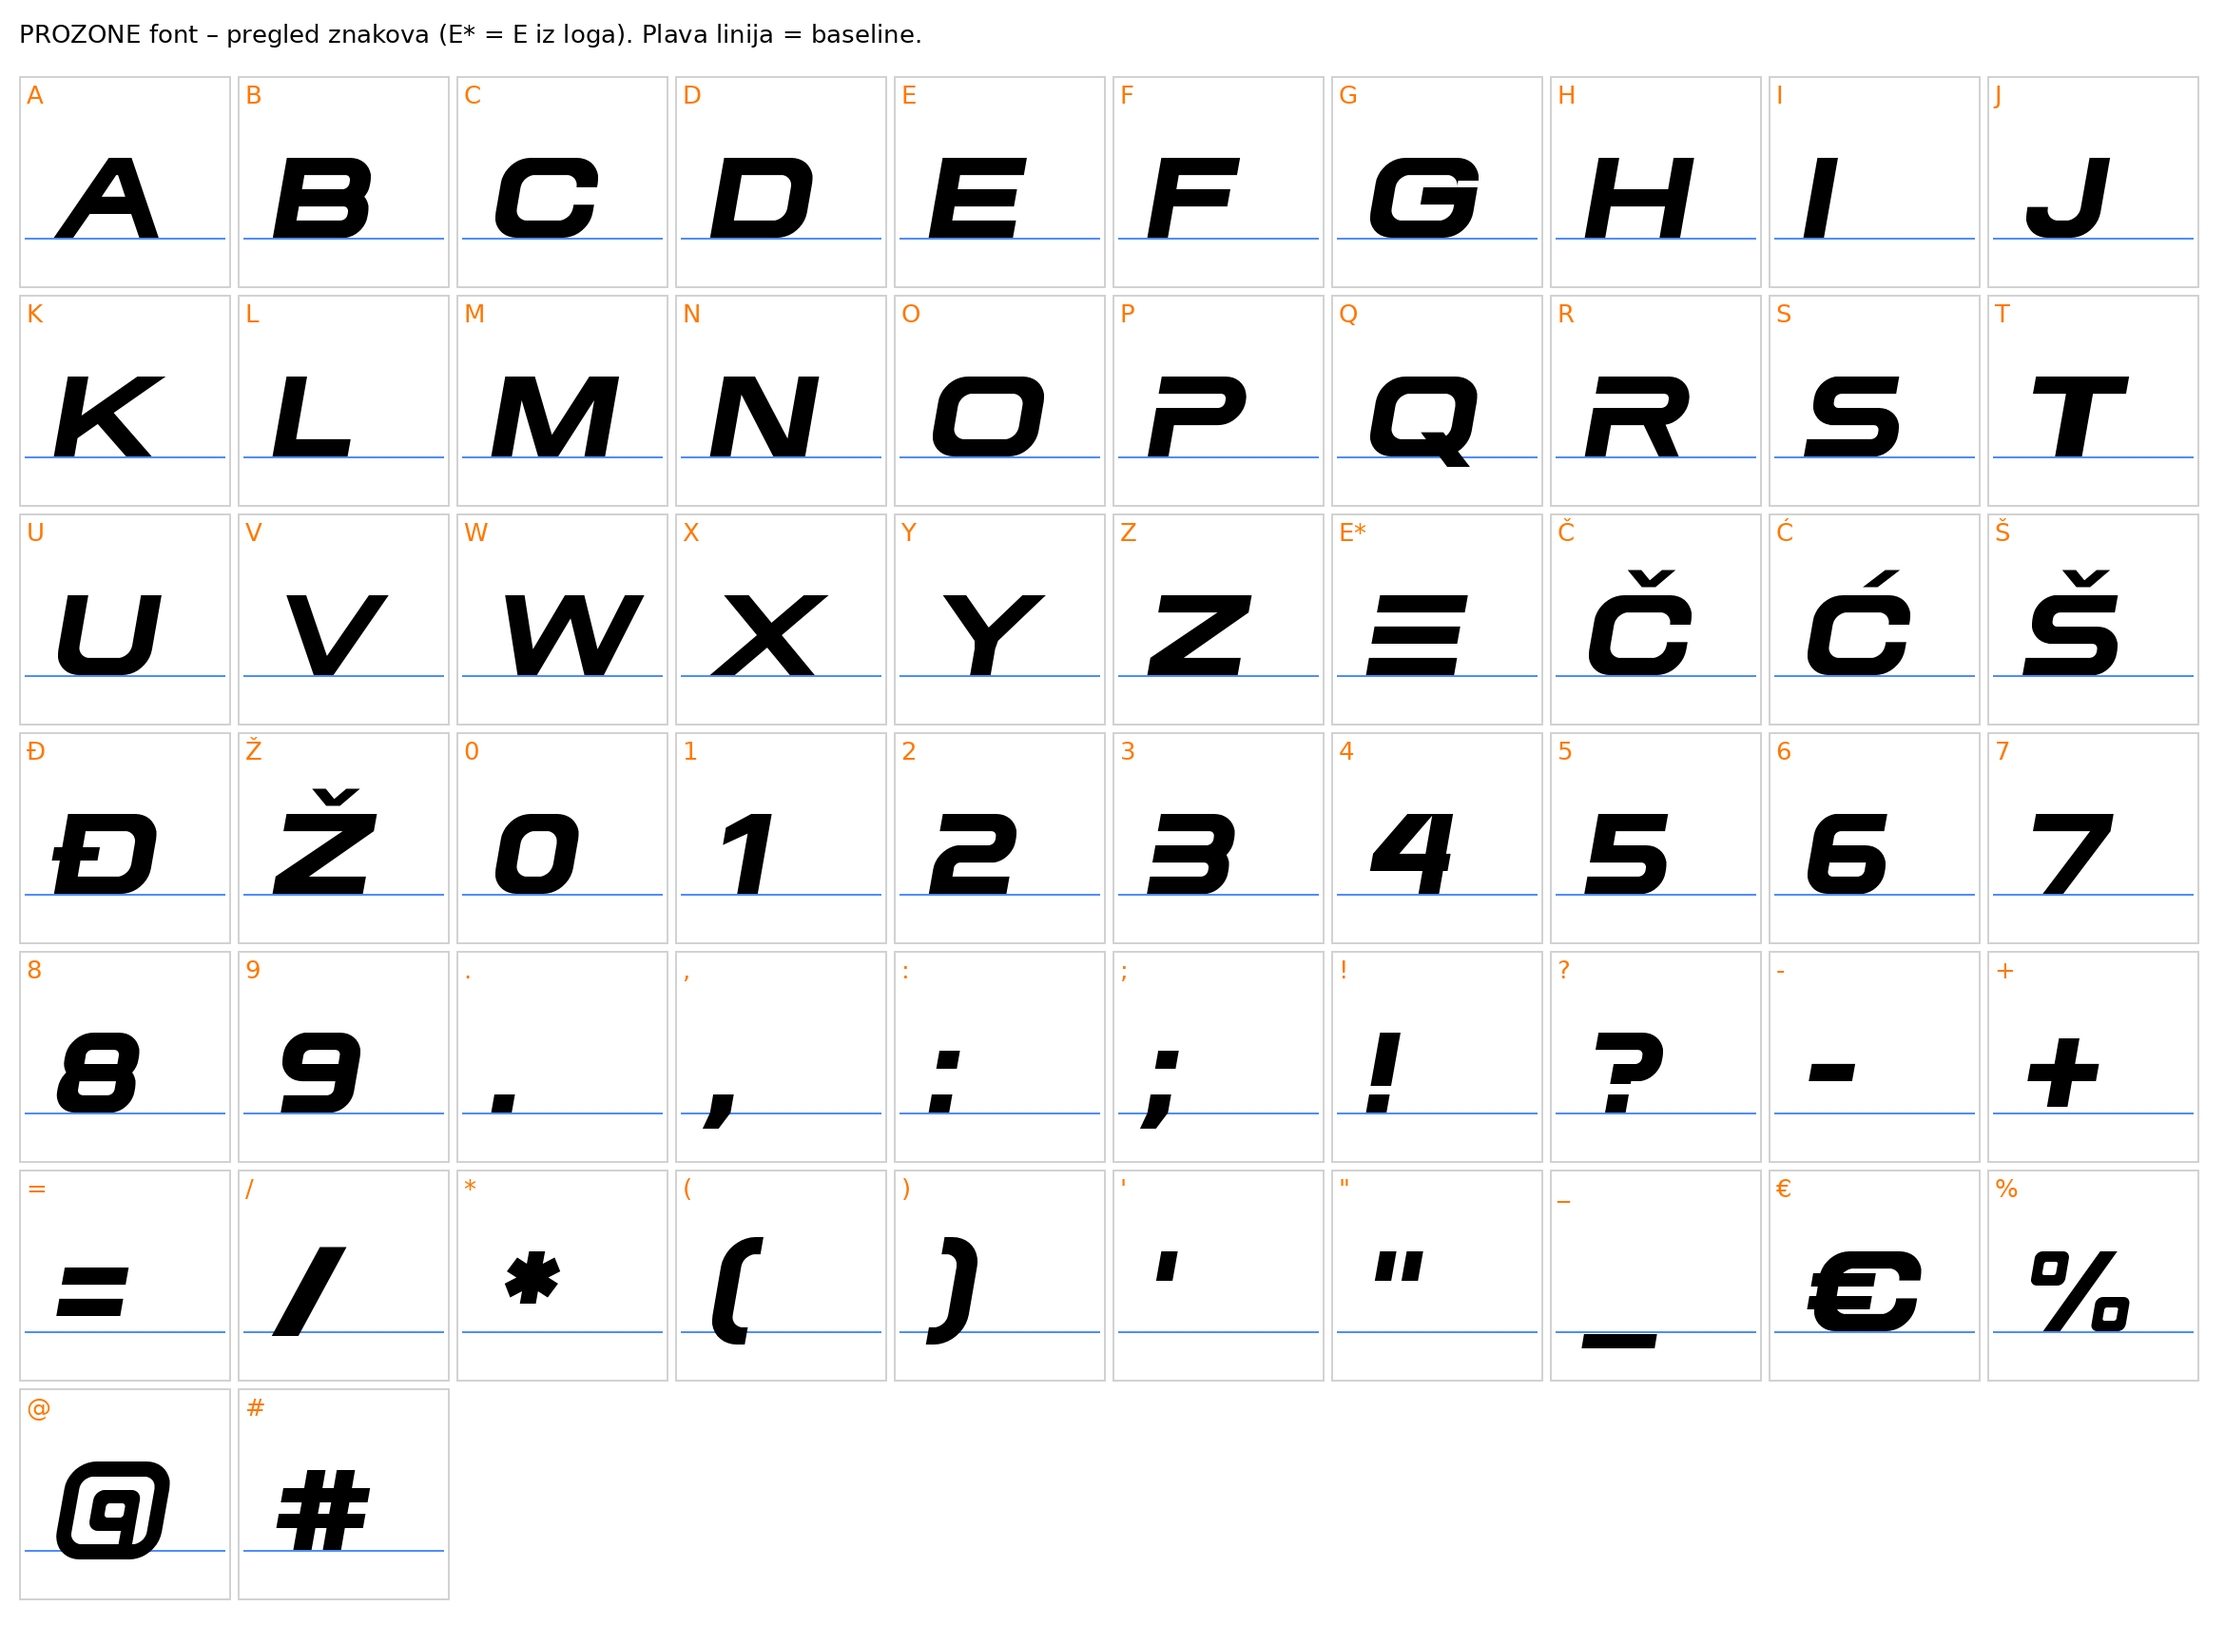
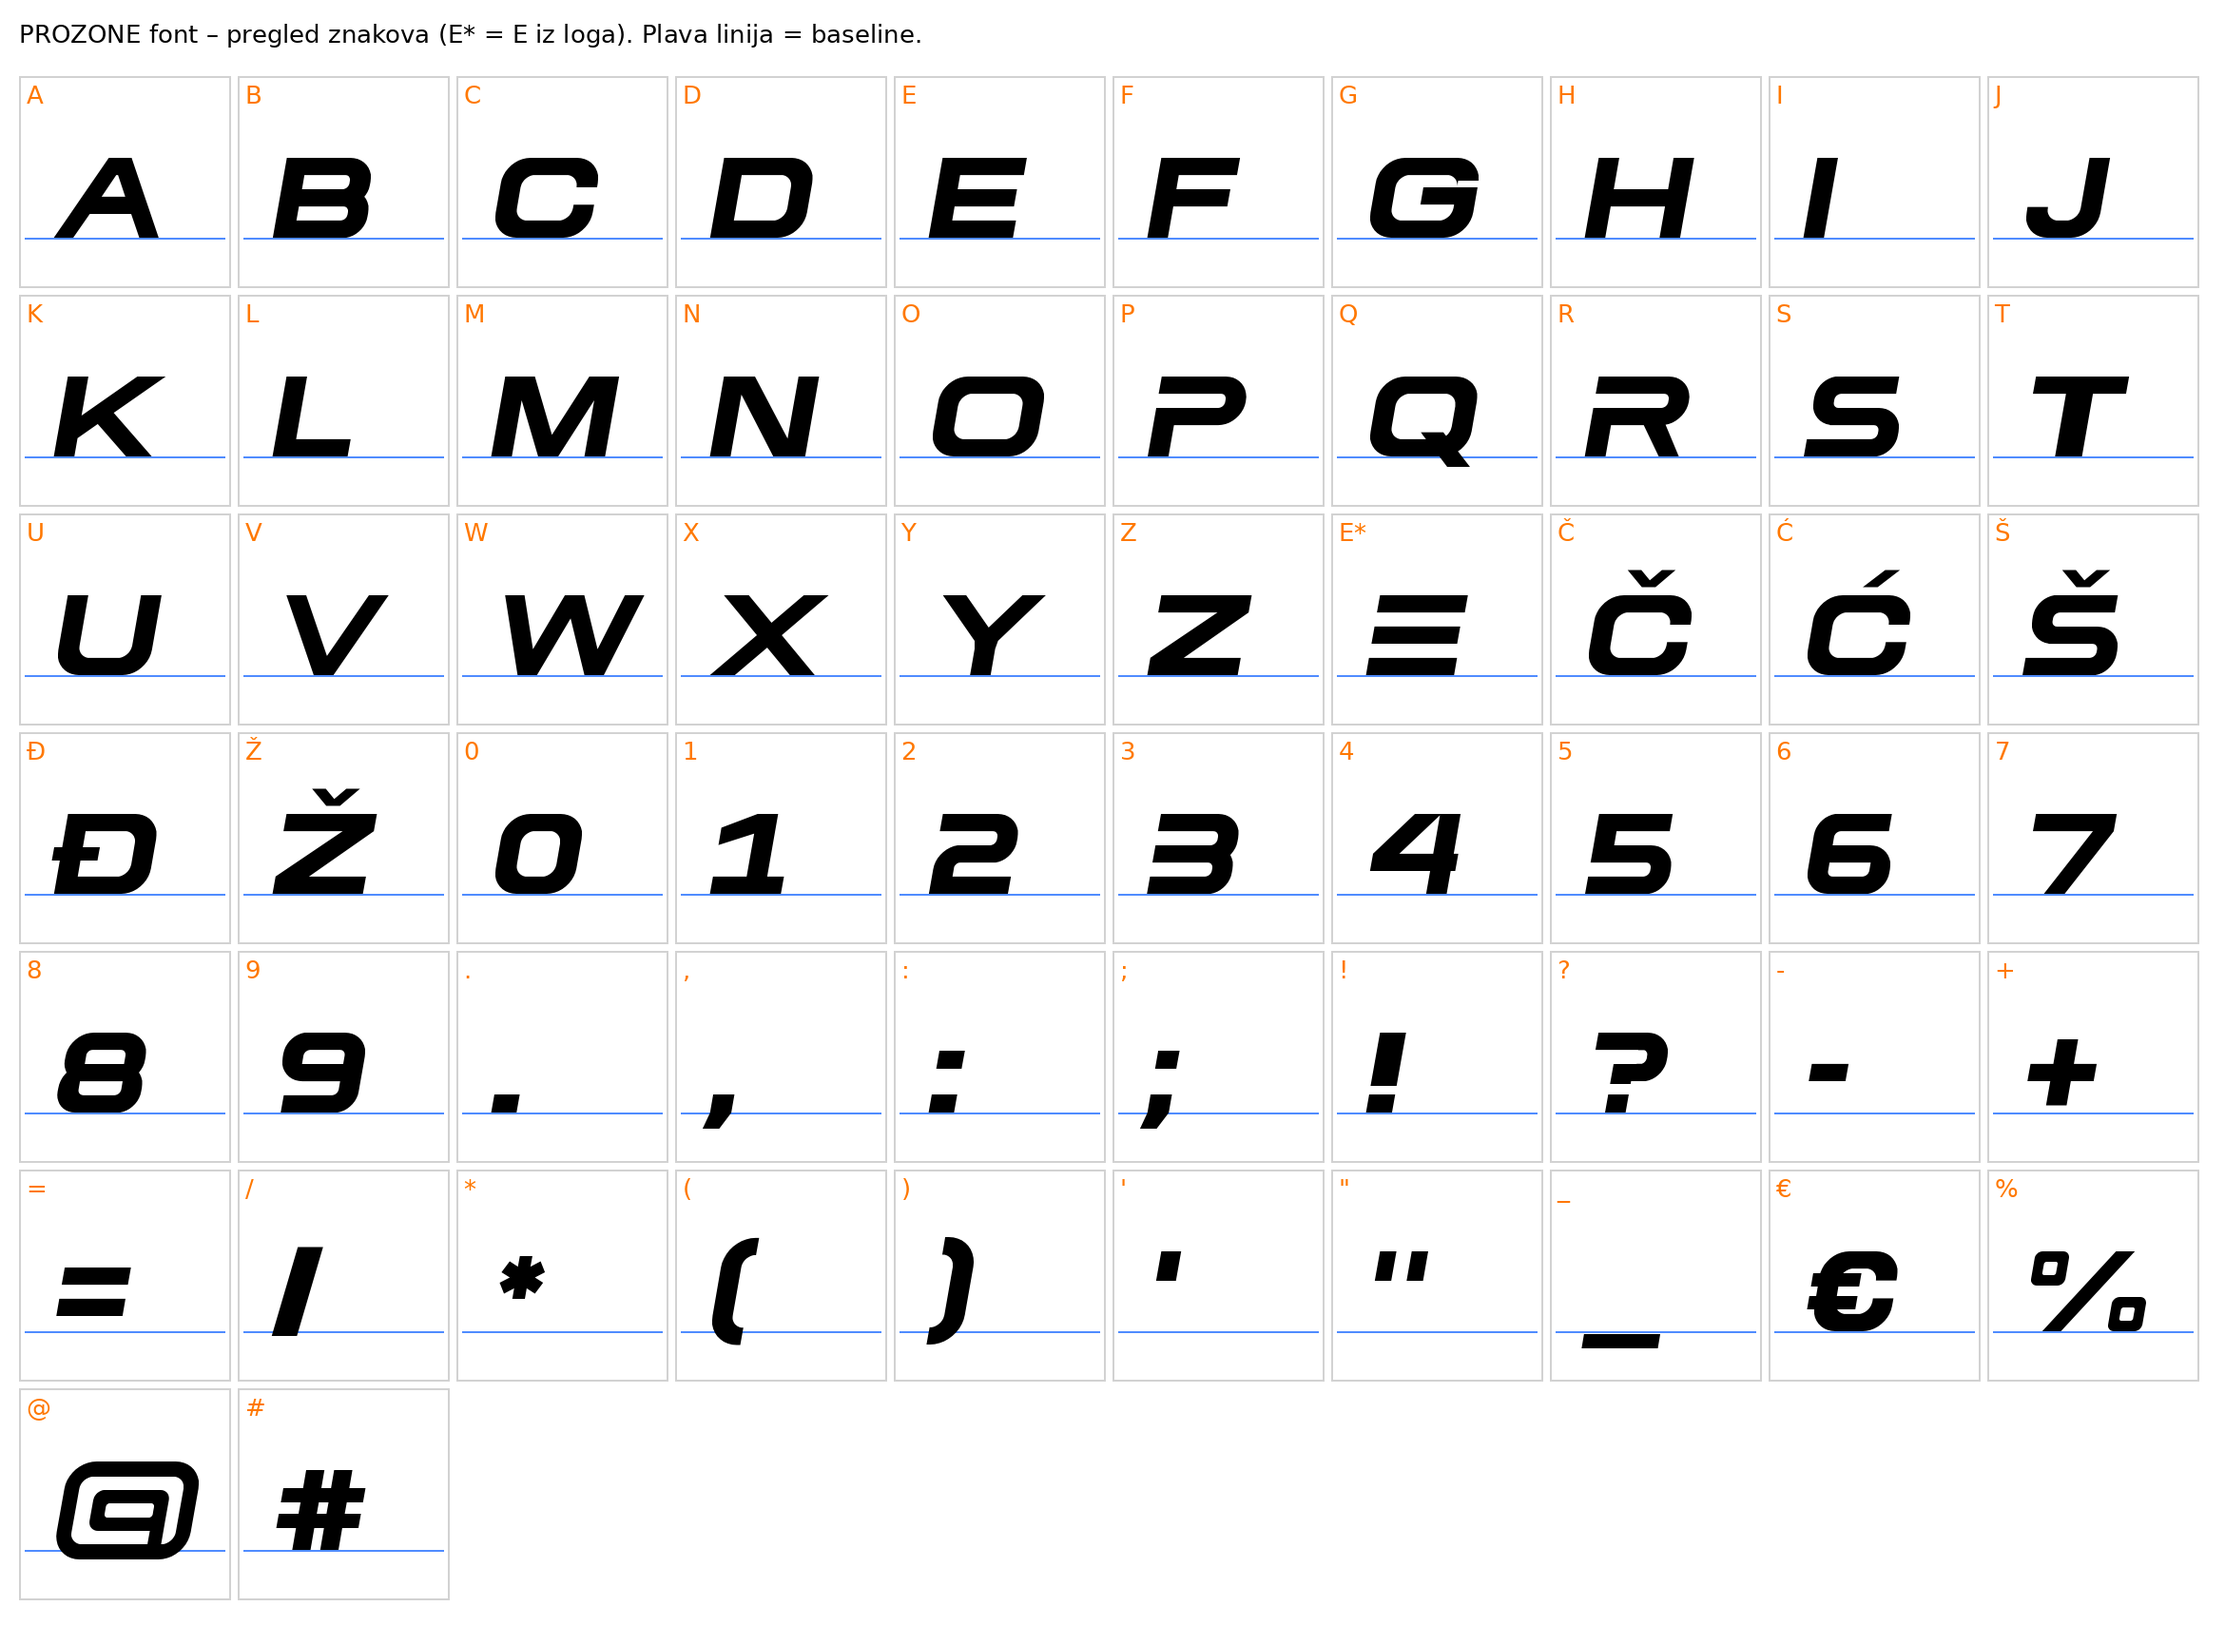
Font: digit and symbol widths matched to Archivo Expanded ExtraBold Italic
Claude-Session: https://claude.ai/code/session_01VgbUEcHceGpcGcRoLDMoQW

diff --git a/font/build_prozone_font.py b/font/build_prozone_font.py
@@ -620,14 +620,114 @@ ARCHIVO_W = {'A': 919, 'B': 799, 'C': 852, 'D': 812, 'E': 739, 'F': 690, 'G': 90
              'T': 816, 'U': 822, 'V': 897, 'W': 1220, 'X': 919, 'Y': 902, 'Z': 792}
 DIAG_LETTERS = set('AKMNVWXYZ')       # grade se u novoj sirini (debljine kosih linija ostaju)
 
+# brojevi i znakovi: sirine kao Archivo Expanded ExtraBold Italic (isto mjerenje). Odabrao vlasnik 22.11.2026.
+ARCHIVO_NW = {'0': 709, '1': 622, '2': 693, '3': 713, '4': 747, '5': 715, '6': 721, '7': 708, '8': 734, '9': 721,
+              '.': 222, ',': 226, ':': 223, ';': 227, '!': 228, '?': 642, '-': 322, '+': 580, '=': 580, '/': 314,
+              '%': 1044, "'": 174, '"': 423, '(': 291, ')': 291, '€': 742, '#': 720, '*': 381, '_': 668, '@': 1174}
+NUM_SPLIT = {'?': 0.64}    # mjesto rezanja (dio sirine) gdje nema stabla
 
-def stretch_to(fn, target):
-    """Razvuci/suzi slovo po sredini na zadanu sirinu crteza; stabla, grede i lukovi ostaju isti."""
+
+def _perp_w(perp, run_fn, rise):
+    """Horizontalna debljina kose linije za zadanu okomitu debljinu (run zavisi od debljine)."""
+    w = perp
+    for _ in range(12):
+        w = perp * math.hypot(run_fn(w), rise) / rise
+    return w
+
+
+def nw_1(W):
+    # 1 sa stopom (kao Archivo): stopa cijelom sirinom, stablo, zastavica
+    xs = W * 0.62 - S / 2
+    flag = Polygon([(xs, CAP), (xs, CAP - H - 20), (0, CAP - H - 120), (0, CAP - 120)])
+    return U(box(0, 0, W, H), box(xs, 0, xs + S, CAP), flag), W
+
+
+def nw_4(W):
+    st = box(W - S - 40, 0, W - 40, CAP)
+    bar = box(0, 200, W, 200 + H)
+    xt = W - S - 30
+    d = Polygon([(xt - 230, CAP), (xt, CAP), (230, 200 + H), (0, 200 + H)])
+    return U(st, bar, d).intersection(box(0, 0, W, CAP)), W
+
+
+def nw_7(W):
+    PERP = 155
+    xb = W * 0.40
+    w = 225
+    for _ in range(8):
+        xt = W - w / 2
+        w = PERP * math.hypot(xt - xb, CAP - H) / (CAP - H)
+    diag = stroke((W - w / 2, CAP - H), (xb, 0), w)
+    return U(box(0, CAP - H, W, CAP), diag).intersection(box(0, 0, W, CAP)), W
+
+
+def nw_slash(W):
+    rise = CAP + 80
+    perp = S * 1.3 * rise / math.hypot(520 - S * 1.3, rise)          # okomita debljina kao do sada
+    w = _perp_w(perp, lambda w: W - w, rise)
+    return band(stroke((w / 2, -40), (W - w / 2, CAP + 40), w), -40, CAP + 40).intersection(
+        box(0, -40, W, CAP + 40)), W
+
+
+def nw_percent(W):
+    a = allr(0, 400, 300, CAP, 60).difference(allr(90, 400 + 90, 210, CAP - 90, 20))
+    b = allr(W - 300, 0, W, 300, 60).difference(allr(W - 210, 90, W - 90, 210, 20))
+    perp = 150 * CAP / math.hypot(900 - 520, CAP)
+    w = _perp_w(perp, lambda w: W - 520, CAP)
+    return U(a, b, band(stroke((260, 0), (W - 260, CAP), w))), W
+
+
+def nw_asterisk(W):
+    lo, hi = 50, 400
+    for _ in range(30):                                   # duzina krakova tako da sirina bude W
+        L = (lo + hi) / 2
+        c = (0, 470)
+        g = U(*[affinity.rotate(box(-55, 470, 55, 470 + L), a, origin=c) for a in (0, 60, 120, 180, 240, 300)])
+        if g.bounds[2] - g.bounds[0] > W:
+            hi = L
+        else:
+            lo = L
+    return affinity.translate(g, -g.bounds[0], 0), W
+
+
+def nw_numbersign(W):
+    bars = U(box(0, 190, W, 190 + 125), box(0, 420, W, 420 + 125))
+    st = U(box(W * 0.24, 0, W * 0.24 + 160, CAP), box(W * 0.58, 0, W * 0.58 + 160, CAP))
+    return U(bars, st), W
+
+
+def nw_plus(W):
+    return U(box(0, _DM0, W, _DM1), box(W / 2 - S / 2, MID - W / 2, W / 2 + S / 2, MID + W / 2)), W
+
+
+def nw_euro(cfn, W):
+    c, Wc = stretch_to(cfn, W - 60)()
+    c = affinity.translate(c, 60 - c.bounds[0], 0)
+    bars = U(box(0, 390, (W - 60) * 0.62, 390 + 115), box(0, 195, (W - 60) * 0.62, 195 + 115))
+    return U(c, bars), W
+
+
+def nw_parenleft(W):
+    return rr(0, -120, W + 400, CAP + 120, tl=RO + 40, bl=RO + 40).difference(
+        rr(S, -120 + H, W + 401, CAP + 120 - H, tl=RI, bl=RI)).intersection(box(0, -130, W, CAP + 130)), W
+
+
+def nw_parenright(W):
+    g, _ = nw_parenleft(W)
+    return affinity.scale(g, -1, 1, origin=(W / 2, 0)), W
+
+
+NUM_REBUILD = {'(': nw_parenleft, ')': nw_parenright, '1': nw_1, '4': nw_4, '7': nw_7, '/': nw_slash, '%': nw_percent, '*': nw_asterisk,
+               '#': nw_numbersign, '+': nw_plus}
+
+
+def stretch_to(fn, target, split=0.5):
+    """Razvuci/suzi slovo po sredini (ili na mjestu split) na zadanu sirinu crteza; stabla, grede i lukovi ostaju isti."""
     def wrapped():
         g, W = fn()
         x0, x1 = g.bounds[0], g.bounds[2]
         dw = target - (x1 - x0)
-        c = (x0 + x1) / 2
+        c = x0 + (x1 - x0) * split
         if dw >= 0:
             left = g.intersection(box(-5000, -5000, c, 5000))
             right = g.intersection(box(c, -5000, 5000, 5000))
@@ -669,6 +769,13 @@ def build_map(logo_e):
               '?': p_question, '-': p_hyphen, '+': p_plus, '=': p_equal, '/': p_slash, '%': p_percent,
               "'": p_quotesingle, '"': p_quotedbl, '(': p_parenleft, ')': p_parenright, '€': p_euro,
               '#': p_numbersign, '*': p_asterisk, '_': p_underscore, '@': p_at})
+    for ch, w in ARCHIVO_NW.items():                       # sirine brojeva i znakova kao Archivo Expanded
+        if ch == '€':
+            m[ch] = (lambda w=w: nw_euro(caps['C'], w))
+        elif ch in NUM_REBUILD:
+            m[ch] = (lambda ch=ch, w=w: NUM_REBUILD[ch](w))
+        else:
+            m[ch] = stretch_to(m[ch], w, NUM_SPLIT.get(ch, 0.5))
     return m
 
 
